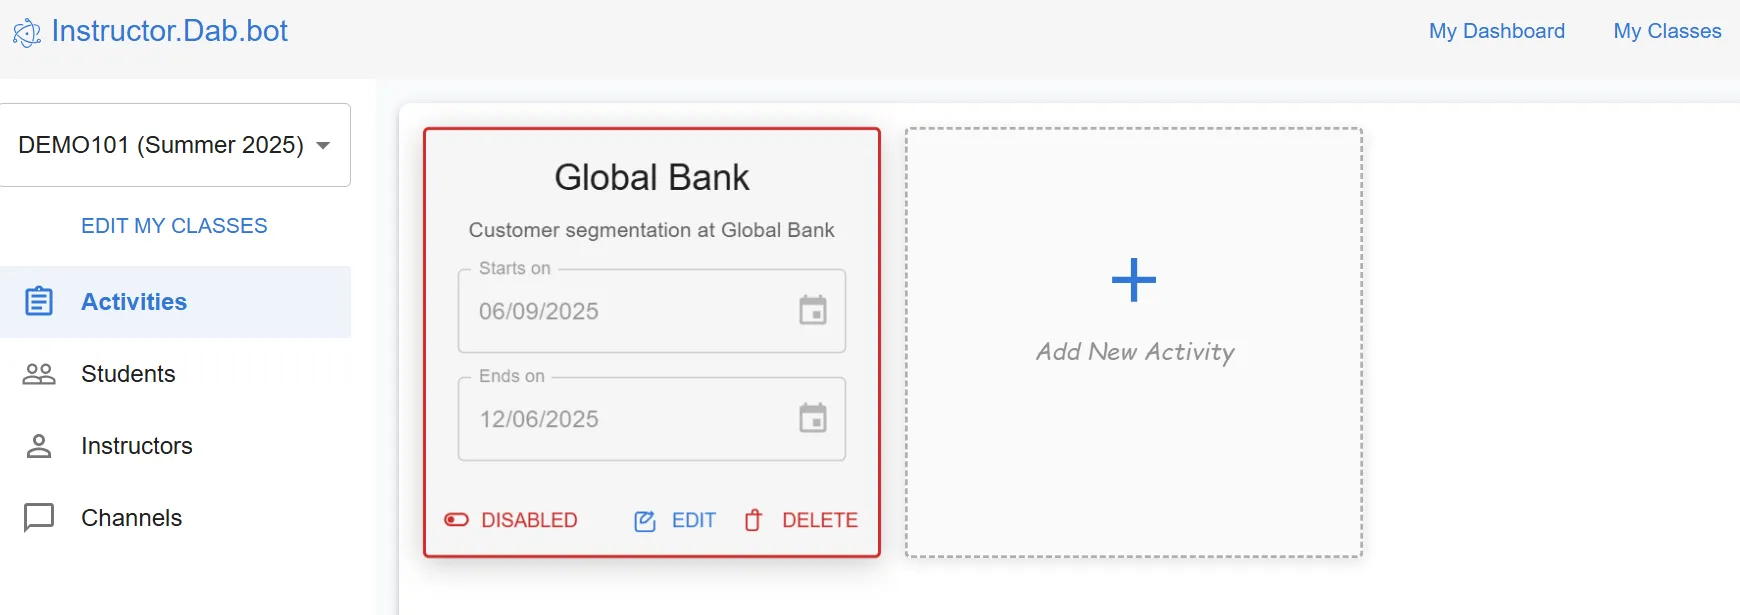
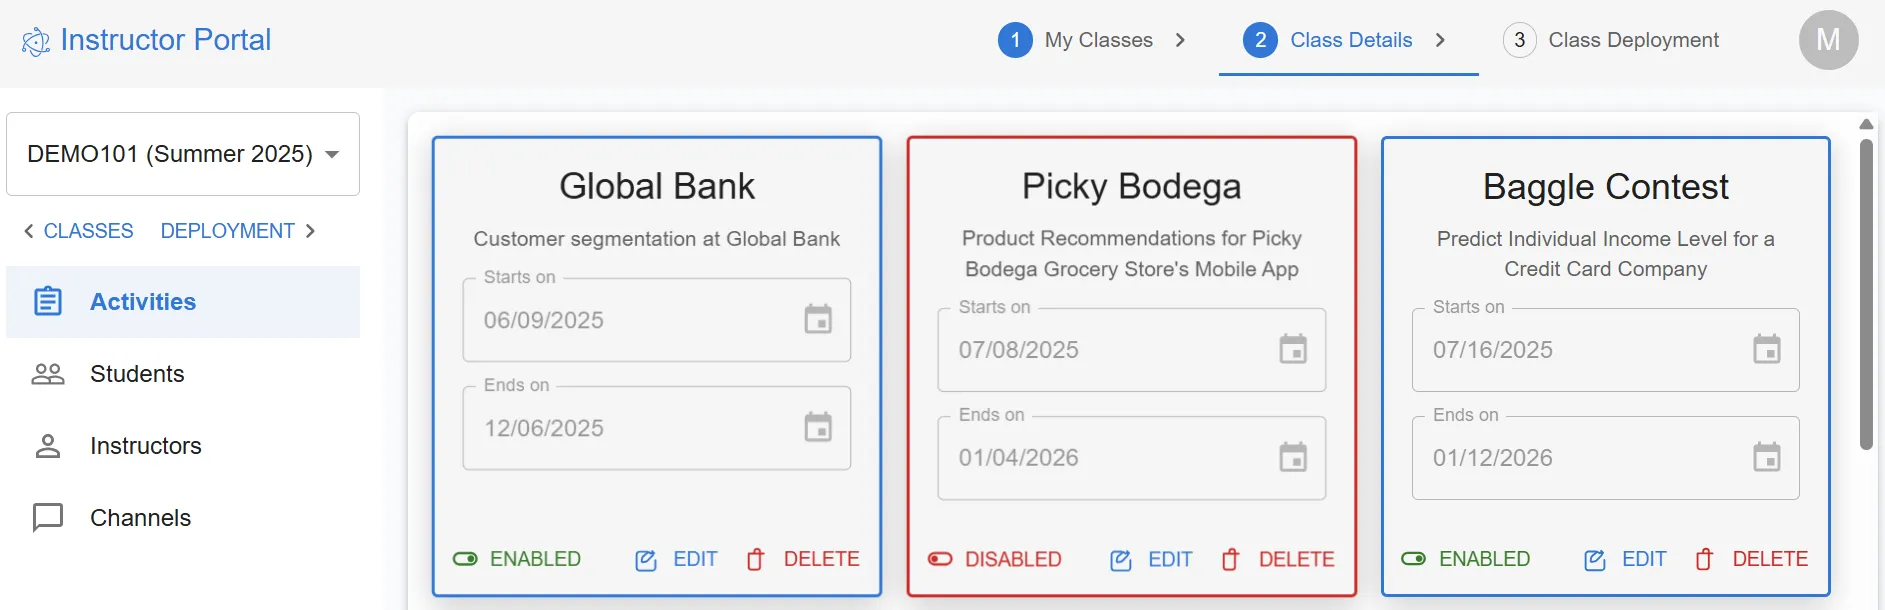
new post and revisions to old ones based on new design

diff --git a/assets/css/skins/default.scss b/assets/css/skins/default.scss
@@ -42,3 +42,20 @@ $base0e: #6c71c4 !default;
 $base0f: #d33682 !default;
 
 @import "so-simple/skin";
+
+/* Responsive video container */
+.video-container {
+  position: relative;
+  width: 95%;
+  height: 0;
+  padding-bottom: 56.25%; /* 16:9 aspect ratio */
+  margin: 1rem 0;
+}
+
+.video-container iframe {
+  position: absolute;
+  top: 0;
+  left: 0;
+  width: 100%;
+  height: 100%;
+}

diff --git a/_posts/2025-10-17-oct-open-house.md b/_posts/2025-10-17-oct-open-house.md
@@ -1,0 +1,16 @@
+---
+title: "Mentorica.AI Open House (Oct 2025)"
+excerpt: "Showcasing how to integrate Mentorica.AI to your classroom."
+author: "Mochen Yang"
+image: 
+  path: /images/2025-10-17-oct-open-house/header.webp
+  thumbnail: /images/2025-10-17-oct-open-house/thumbnail.webp
+categories:
+  - Use-Case
+---
+
+We held our first online Open House event on Oct 17th, 2025! We shared why we started Mentorica, how we have used it in our own classrooms, and answered some of the most frequent questions we got. See below for a recording of the event on YouTube.
+
+<div class="video-container">
+  <iframe src="https://www.youtube.com/embed/w7Pt_ZzdzvM" title="Mentorica.AI Oct Open House" frameborder="0" allow="accelerometer; autoplay; clipboard-write; encrypted-media; gyroscope; picture-in-picture; web-share" allowfullscreen></iframe>
+</div>

diff --git a/README.md b/README.md
@@ -1,0 +1,15 @@
+# Introduction
+
+This is the Github repository for Mentorica.AI [blog site](blog.mentorica.ai).
+
+To install dependencies, run
+```
+bundle install
+```
+
+To preview the blog locally, run
+```
+bundle exec jekyll serve
+```
+
+Pushing to the repo will automatically deploy the site via Github Action.

diff --git a/_posts/2025-06-02-instructor-portal.md b/_posts/2025-06-02-instructor-portal.md
@@ -15,7 +15,7 @@ If you haven't already, please register for a free instructor account on our [in
 
 # Configure an AI Activity
 
-All AI activities can be managed under the "My Dashboard" page of your course. Take the "Global Bank" case as an example (see screenshot below), you have sevearl configuration options:
+All AI activities can be managed under the "Class Details" page for a given course. Take the "Global Bank" case as an example (see screenshot below), you have several configuration options:
 - The "ENABLED/DISABLED" toggle: this controls the visibility of this AI activity for your students. Switching an AI activity to the "Enabled" state would make that AI activity immediately available and visible to your students. Please note that a activity will automatically be toggled to the "Enabled" state on the specified start date of your activity and to the "Disabled" state on the specified end date.
 - The "EDIT" button: The pop-up window is where you can specify the desired start and end dates for this AI activity, as well as whether it should be assigned to individual students or student teams. For our pre-configured AI activities, you won't be able to modify the name or description.
 - The "DELETE" button allows you to delete an AI activity altogether.
@@ -24,6 +24,19 @@ All AI activities can be managed under the "My Dashboard" page of your course. T
 
 ![activity config](../../images/2025-06-02-instructor-portal/activity_config.webp)
 
+
+# Chat with AI
+
+Often times, you want to have a chat with an AI agent in a case to test how it behaves or as a demo to your students. You can do so without leaving the instructor portal. The "Class Deployment" tab (top right corner) is designed exactly for this purpose. It allows you to view your own course and chat with the AI activities you have enabled _as if_ you are a student (similar to the "Student View" feature on Canvas). 
+
+![class deployment](../../images/2025-06-02-instructor-portal/class_deployment.webp)
+
+If you click on the info icon (🛈) right next to channel name, you will be able to access the learning objective, case description, teaching note, and supplemental materials (e.g., the dataset associated with the case). The teaching note is only visible to you (as the instructor), whereas the other case materials are also available to your students (in their student portal).
+
+The chat interface also has a "Recover AI" button and a "Print" button.
+
+- The **"Recover AI" button**: sometimes, the AI agent might get "stuck" on a request due to glitches in OpenAI's service. For example, the AI agent may tell you that "it has lost access to the data or coding environment" or even ask you to "upload the data files" (which you do not need to do). We have already implemented automatic recovery mechanisms to reduce disruptions to your learning experiences. In rare instances when automatic recovery does not address the problem, you can click this button to issue a manual recovery. This will reset the underlying OpenAI Assistant, re-install required data files and re-implant the memory of this conversation.
+- The **"Print" button** will export all the historical messages in the current channel into a PDF file. This allow you to save your conversations with the AI.
 
 # Assign an AI Activity
 